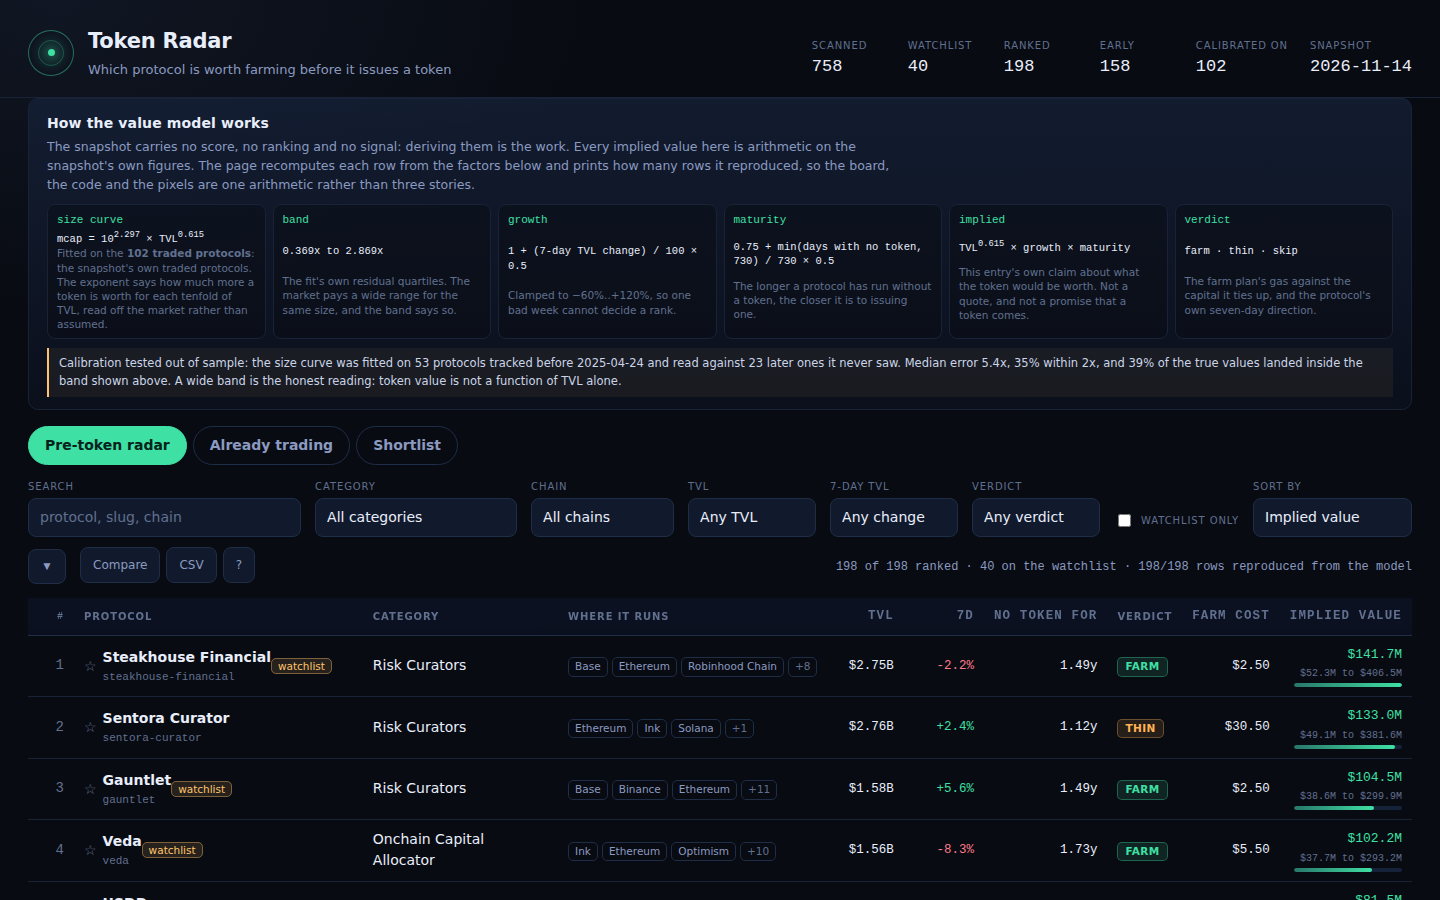
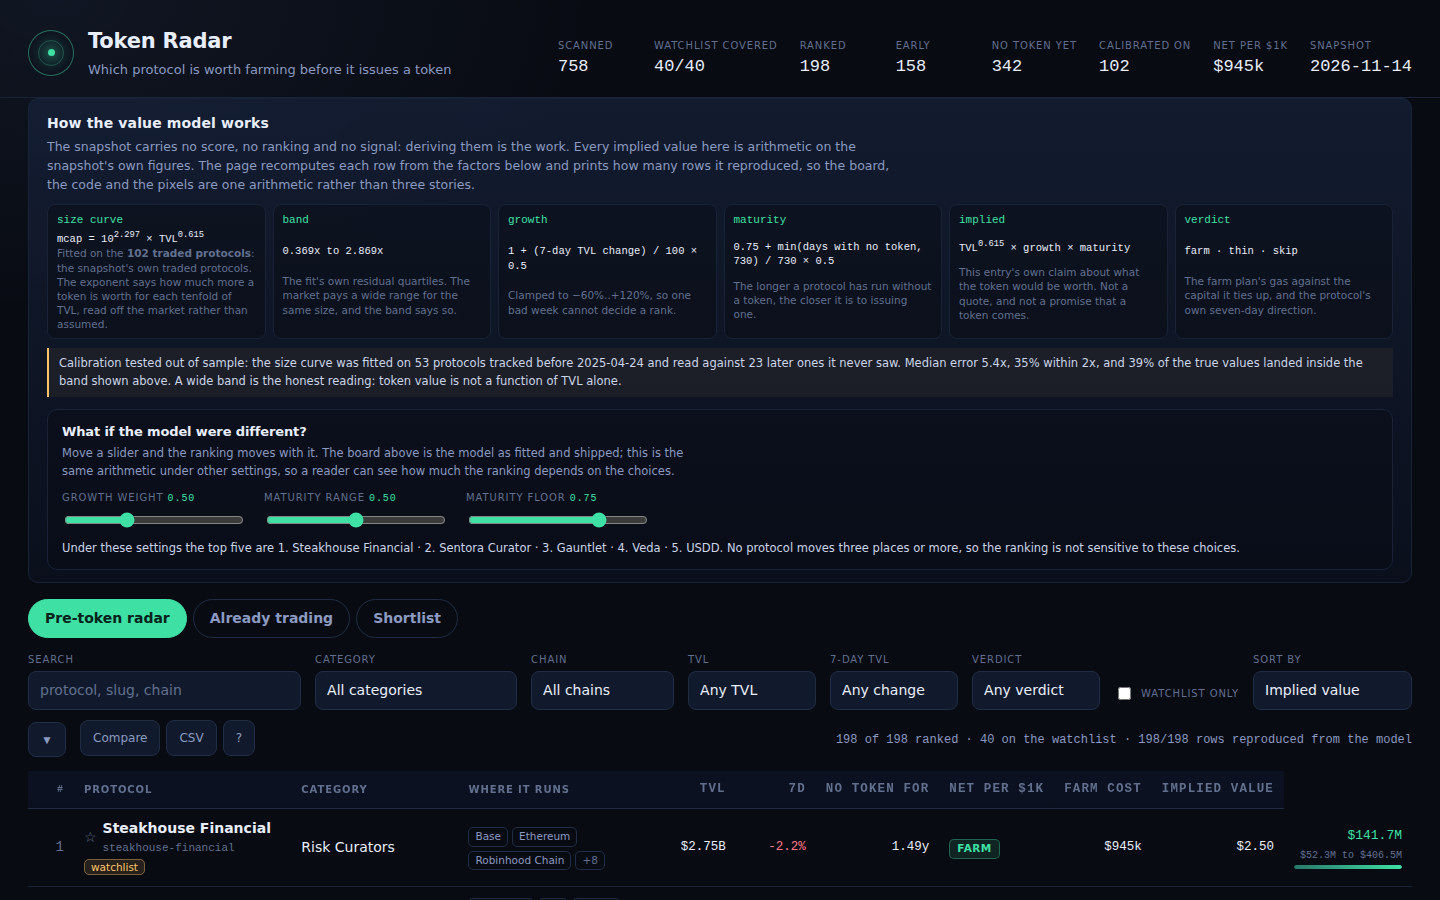
Token Radar v3: state the coverage, show the peers, and let a reader re-rank the model
The header now says what the board covered rather than implying it: the snapshot's watchlist is 40
slugs and the board carries all 40, 342 protocols in the snapshot record no token at all, and the
value is calibrated on the 102 that have one.

Each row's detail view names the traded protocols closest to it in size and what the market pays for
each, so a reader can see the curve the value is read against instead of taking it on trust.

A what-if sandbox re-ranks the board under different growth and maturity settings and names the
protocols that move, which shows how much of the ranking is the snapshot and how much is the model's
choices.

A net-per-k column puts the implied value against the capital the plan ties up, so the rows are
comparable on the question that matters: what a reader gets per dollar at risk.

diff --git a/dashboard/app.js b/dashboard/app.js
@@ -63,6 +63,10 @@
     paletteToggle: document.getElementById('palette-toggle'),
     paletteClose: document.getElementById('palette-close'),
     testLine: document.getElementById('test-line'),
+    sandboxGrowth: document.getElementById('s-growth'),
+    sandboxMaturity: document.getElementById('s-maturity'),
+    sandboxFloor: document.getElementById('s-floor'),
+    sandboxOut: document.getElementById('sandbox-out'),
   };
 
   // ---------- formatting
@@ -151,6 +155,7 @@
     if (state.sort === 'tvl') return row.tvl_usd;
     if (state.sort === 'growth') return row.change_7d === null ? -999 : row.change_7d;
     if (state.sort === 'age') return row.age_days === null ? -1 : row.age_days;
+    if (state.sort === 'net') return row.value_per_capital;
     if (state.sort === 'cost') return row.total_cost_usd;
     if (state.sort === 'readiness') return row.readiness;
     if (state.sort === 'name') return row.name.toLowerCase();
@@ -237,7 +242,7 @@
         node('th', { class: 'sortable num', 'data-sort': 'tvl', text: 'TVL' }),
         node('th', { class: 'sortable num', 'data-sort': 'growth', text: '7d' }),
         node('th', { class: 'sortable num', 'data-sort': 'age', text: 'No token for' }),
-        node('th', { text: 'Verdict' }),
+        node('th', { class: 'sortable num', 'data-sort': 'net', text: 'Net per $1k' }),
         node('th', { class: 'sortable num', 'data-sort': 'cost', text: 'Farm cost' }),
         node('th', { class: 'sortable num', 'data-sort': 'implied', text: 'Implied value' }),
       ]),
@@ -276,6 +281,7 @@
         growthCell(row),
         node('td', { class: 'num', text: fmtAge(row.age_days) }),
         node('td', null, [node('span', { class: 'verdict ' + row.verdict, text: row.verdict })]),
+        node('td', { class: 'num', text: '$' + Math.round(row.value_per_capital / 1000) + 'k' }),
         node('td', { class: 'num', text: '$' + row.total_cost_usd.toFixed(2) }),
         valueTd,
       ];
@@ -345,11 +351,36 @@
       plan.appendChild(node('li', { text: step }));
     });
 
+  // The traded protocols closest in size to this one: the peers the model's curve is read against.
+  function peerTable(row) {
+    var peers = row.peers || [];
+    if (!peers.length) return node('p', { class: 'empty', text: 'No traded protocol of a similar size in this snapshot.' });
+    var body = node('tbody');
+    peers.forEach(function (p) {
+      body.appendChild(node('tr', null, [
+        node('td', { text: p.name }),
+        node('td', { class: 'num', text: fmtUsd(p.tvl_usd) }),
+        node('td', { class: 'num', text: fmtUsd(p.mcap_usd) }),
+        node('td', { class: 'num', text: p.multiple.toFixed(3) + 'x' }),
+      ]));
+    });
+    return node('table', { class: 'peer-table' }, [
+      node('thead', null, [node('tr', null, [
+        node('th', { text: 'Traded peer' }),
+        node('th', { class: 'num', text: 'TVL' }),
+        node('th', { class: 'num', text: 'Market cap' }),
+        node('th', { class: 'num', text: 'mcap / TVL' }),
+      ])]),
+      body,
+    ]);
+  }
+
     var factors = node('ul', { class: 'factors' }, [
       factorBar('size curve', fmtUsd(row.fitted_value_usd) + ' at ' + MODEL.size_curve_exponent.toFixed(3), Math.min(row.tvl_usd / 1e10, 1)),
       factorBar('growth', fmtMult(row.growth_multiplier) + ' (' + fmtPct(row.change_7d) + ')', (row.growth_multiplier - 0.7) / 0.9),
       factorBar('maturity', fmtMult(row.maturity_multiplier), (row.maturity_multiplier - 0.75) / 0.5),
       factorBar('band', fmtUsd(row.implied_value_low_usd) + '–' + fmtUsd(row.implied_value_high_usd), row.implied_value_usd / Math.max(row.implied_value_high_usd, 1)),
+      factorBar('peers', (row.peers || []).map(function (p) { return p.name + ' ' + p.multiple + 'x'; }).join(', '), 1),
     ]);
 
     var facts = node('dl', { class: 'facts' }, [
@@ -384,6 +415,8 @@
     el.detail.appendChild(facts);
     el.detail.appendChild(node('h4', { text: 'The model on this row' }));
     el.detail.appendChild(factors);
+    el.detail.appendChild(node('h4', { text: 'Traded protocols of a similar size' }));
+    el.detail.appendChild(peerTable(row));
     el.detail.appendChild(node('h4', { text: 'How to farm it' }));
     el.detail.appendChild(plan);
     el.detail.appendChild(node('button', { class: 'back', type: 'button', text: 'Close', onclick: closeDetail }));
@@ -636,11 +669,13 @@
 
   function renderStats() {
     document.getElementById('stat-scanned').textContent = String(DATA.scanned_size);
-    document.getElementById('stat-watchlist').textContent = String(DATA.watchlist_size);
+    document.getElementById('stat-watchlist').textContent = DATA.watchlist_covered + '/' + DATA.watchlist_size;
     document.getElementById('stat-ranked').textContent = String(DATA.board_size);
     document.getElementById('stat-early').textContent = String(DATA.early_size);
+    document.getElementById('stat-audited').textContent = String(DATA.audited_no_token);
     document.getElementById('stat-comps').textContent = String(DATA.comp_set_size);
     document.getElementById('stat-date').textContent = DATA.as_of;
+    document.getElementById('stat-net').textContent = '$' + Math.round(ROWS.length ? ROWS[0].value_per_capital / 1000 : 0) + 'k';
     document.getElementById('comp-count').textContent = DATA.comp_set_size + ' traded protocols';
     document.getElementById('band-low').textContent = fmtMult(MODEL.band_low_factor);
     document.getElementById('band-high').textContent = fmtMult(MODEL.band_high_factor);
@@ -701,6 +736,46 @@
   fillSelect(el.category, categories());
   fillSelect(el.chain, chains());
   wireControls();
+
+  // ---------- the sandbox
+
+  // The same arithmetic the board was built with, under the reader's own settings: how much of the
+  // ranking is the model's choice and how much is the snapshot's. It names the protocols that move.
+  function sandboxValue(row, growthWeight, maturityRange, maturityFloor) {
+    var growth = Math.min(MODEL.growth_cap, Math.max(MODEL.growth_floor, row.change_7d === null || row.change_7d === undefined ? 0 : row.change_7d));
+    var growthMult = 1 + (growth / 100) * growthWeight;
+    var age = row.age_days === null || row.age_days === undefined ? MODEL.unknown_age_days : row.age_days;
+    var maturityMult = maturityFloor + (Math.min(Math.max(age, 0), MODEL.maturity_days) / MODEL.maturity_days) * maturityRange;
+    var fitted = Math.pow(10, MODEL.size_curve_intercept + MODEL.size_curve_exponent * Math.log10(Math.max(row.tvl_usd, MODEL.min_tvl_usd)));
+    return fitted * growthMult * maturityMult;
+  }
+
+  function renderSandbox() {
+    var growthWeight = parseFloat(el.sandboxGrowth.value);
+    var maturityRange = parseFloat(el.sandboxMaturity.value);
+    var maturityFloor = parseFloat(el.sandboxFloor.value);
+    document.getElementById('s-growth-v').textContent = growthWeight.toFixed(2);
+    document.getElementById('s-maturity-v').textContent = maturityRange.toFixed(2);
+    document.getElementById('s-floor-v').textContent = maturityFloor.toFixed(2);
+
+    var base = ROWS.slice().sort(function (a, b) { return b.implied_value_usd - a.implied_value_usd; }).map(function (r) { return r.slug; });
+    var moved = [];
+    var under = ROWS.map(function (r) { return { slug: r.slug, name: r.name, value: sandboxValue(r, growthWeight, maturityRange, maturityFloor) }; });
+    under.sort(function (a, b) { return b.value - a.value; });
+    under.forEach(function (r, i) {
+      var was = base.indexOf(r.slug) + 1;
+      if (Math.abs(was - (i + 1)) >= 3) moved.push({ name: r.name, was: was, now: i + 1 });
+    });
+    var top = under.slice(0, 5).map(function (r, i) { return (i + 1) + '. ' + r.name; }).join('  ·  ');
+    el.sandboxOut.textContent = moved.length
+      ? 'Under these settings the top five are ' + top + '. ' + moved.length + ' protocol' + (moved.length === 1 ? '' : 's') + ' move three places or more: ' +
+        moved.slice(0, 6).map(function (m) { return m.name + ' ' + m.was + '→' + m.now; }).join(', ') + '.'
+      : 'Under these settings the top five are ' + top + '. No protocol moves three places or more, so the ranking is not sensitive to these choices.';
+  }
+  [el.sandboxGrowth, el.sandboxMaturity, el.sandboxFloor].forEach(function (input) {
+    input.addEventListener('input', renderSandbox);
+  });
+  renderSandbox();
   renderStats();
   render();
   window.addEventListener('hashchange', applyHash);

diff --git a/lib/model.ts b/lib/model.ts
@@ -154,6 +154,7 @@ export interface RadarRow {
   implied_value_usd: number;
   implied_value_low_usd: number;
   implied_value_high_usd: number;
+  value_per_capital: number;
   fitted_value_usd: number;
   growth_pct: number;
   growth_multiplier: number;
@@ -167,6 +168,7 @@ export interface RadarRow {
   cost_share_of_capital: number;
   hold_days: number;
   farm_steps: string[];
+  peers: { name: string; tvl_usd: number; mcap_usd: number; multiple: number }[];
 }
 
 /** A protocol whose token already trades: the market's own numbers, and the comp set's members. */
@@ -197,6 +199,8 @@ export interface RadarData {
   early_size: number;
   live_size: number;
   comp_set_size: number;
+  audited_no_token: number;
+  watchlist_covered: number;
   scanned_size: number;
   rows: RadarRow[];
   live: LiveRow[];
@@ -676,10 +680,33 @@ export function buildBoard(snapshot: Snapshot, model: ModelConstants = modelCons
   }));
 }
 
+/** The traded protocols closest in size to a protocol's TVL: the peers its value is read against. */
+function nearestPeers(
+  tvlUsd: number,
+  comps: SnapshotProtocol[],
+): { name: string; tvl_usd: number; mcap_usd: number; multiple: number }[] {
+  const target = Math.log10(Math.max(tvlUsd, 1e6));
+  return comps
+    .slice()
+    .sort(
+      (a, b) =>
+        Math.abs(Math.log10(Math.max(a.tvl_usd, 1e6)) - target) -
+        Math.abs(Math.log10(Math.max(b.tvl_usd, 1e6)) - target),
+    )
+    .slice(0, 3)
+    .map((p) => ({
+      name: p.name,
+      tvl_usd: p.tvl_usd,
+      mcap_usd: p.mcap_usd!,
+      multiple: Math.round((p.mcap_usd! / p.tvl_usd) * 1000) / 1000,
+    }));
+}
+
 /** Everything the dashboard renders, from the snapshot. */
 export function buildRadar(snapshot: Snapshot): { board: BoardRow[]; radar: RadarData } {
   const model = modelConstants(snapshot);
   const board = buildBoard(snapshot, model);
+  const comps = compProtocols(snapshot);
   const live = liveRows(snapshot);
   const watch = new Set(snapshot.watchlist);
   const radar: RadarData = {
@@ -695,12 +722,15 @@ export function buildRadar(snapshot: Snapshot): { board: BoardRow[]; radar: Rada
     early_size: board.filter((r) => !watch.has(r.slug)).length,
     live_size: live.length,
     comp_set_size: compProtocols(snapshot).length,
+    audited_no_token: snapshot.protocols.filter((p) => isPreToken(p)).length,
+    watchlist_covered: board.filter((r) => r.watchlisted).length,
     scanned_size: snapshot.protocols.length,
     rows: board.map((row) => ({
       rank: row.rank,
       slug: row.slug,
       name: row.name,
       category: row.category,
+      peers: nearestPeers(row.tvl_usd, comps),
       chains: row.chains,
       tvl_usd: row.tvl_usd,
       change_7d: row.change_7d,
@@ -710,6 +740,7 @@ export function buildRadar(snapshot: Snapshot): { board: BoardRow[]; radar: Rada
       implied_value_usd: row.implied_value_usd,
       implied_value_low_usd: row.implied_value_low_usd,
       implied_value_high_usd: row.implied_value_high_usd,
+      value_per_capital: Math.round(row.implied_value_usd / row.farm.capital_usd),
       fitted_value_usd: row.model.fitted_value_usd,
       growth_pct: row.model.growth_pct,
       growth_multiplier: row.model.growth_multiplier,
@@ -721,6 +752,7 @@ export function buildRadar(snapshot: Snapshot): { board: BoardRow[]; radar: Rada
       capital_usd: row.farm.capital_usd,
       total_cost_usd: row.farm.total_cost_usd,
       cost_share_of_capital: row.farm.cost_share_of_capital,
+      peers: nearestPeers(row.tvl_usd, comps),
       hold_days: row.farm.hold_days,
       farm_steps: row.farm_steps,
     })),

diff --git a/dashboard/index.html b/dashboard/index.html
@@ -19,10 +19,12 @@
   </div>
   <dl class="stats" id="stats">
     <div><dt>scanned</dt><dd id="stat-scanned">&mdash;</dd></div>
-    <div><dt>watchlist</dt><dd id="stat-watchlist">&mdash;</dd></div>
+    <div><dt>watchlist covered</dt><dd id="stat-watchlist">&mdash;</dd></div>
     <div><dt>ranked</dt><dd id="stat-ranked">&mdash;</dd></div>
     <div><dt>early</dt><dd id="stat-early">&mdash;</dd></div>
+    <div><dt>no token yet</dt><dd id="stat-audited">&mdash;</dd></div>
     <div><dt>calibrated on</dt><dd id="stat-comps">&mdash;</dd></div>
+    <div><dt>net per $1k</dt><dd id="stat-net">&mdash;</dd></div>
     <div><dt>snapshot</dt><dd id="stat-date">&mdash;</dd></div>
   </dl>
 </header>
@@ -70,6 +72,28 @@
     </li>
   </ol>
   <p class="test-line" id="test-line"></p>
+
+  <div class="sandbox" id="sandbox">
+    <div class="sandbox-head">
+      <h3>What if the model were different?</h3>
+      <p>Move a slider and the ranking moves with it. The board above is the model as fitted and shipped; this is the same arithmetic under other settings, so a reader can see how much the ranking depends on the choices.</p>
+    </div>
+    <div class="sandbox-controls">
+      <div class="field">
+        <label for="s-growth">growth weight <span id="s-growth-v">0.50</span></label>
+        <input type="range" id="s-growth" min="0" max="1.5" step="0.05" value="0.5">
+      </div>
+      <div class="field">
+        <label for="s-maturity">maturity range <span id="s-maturity-v">0.50</span></label>
+        <input type="range" id="s-maturity" min="0" max="1" step="0.05" value="0.5">
+      </div>
+      <div class="field">
+        <label for="s-floor">maturity floor <span id="s-floor-v">0.75</span></label>
+        <input type="range" id="s-floor" min="0" max="1" step="0.05" value="0.75">
+      </div>
+    </div>
+    <p class="sandbox-out" id="sandbox-out"></p>
+  </div>
 </section>
 
 <nav class="tabs" role="tablist" aria-label="Views">
@@ -130,6 +154,7 @@
       <option value="tvl">TVL</option>
       <option value="growth">7-day change</option>
       <option value="age">Days with no token</option>
+      <option value="net">Net per $1k at risk</option>
       <option value="cost">Farm cost</option>
       <option value="readiness">Readiness</option>
       <option value="name">Name</option>

diff --git a/dashboard/app.css b/dashboard/app.css
@@ -590,3 +590,24 @@ tbody tr.open td { background: rgba(63, 224, 164, 0.09); }
 
 /* The hidden attribute must win over the layout rules above. */
 [hidden] { display: none !important; }
+
+/* ---------- sandbox ---------- */
+
+.sandbox {
+  margin-top: 12px;
+  padding: 12px 14px;
+  border: 1px solid var(--line-soft);
+  border-radius: 10px;
+  background: rgba(8, 11, 18, 0.4);
+}
+.sandbox-head h3 { font-size: 13px; }
+.sandbox-head p { margin: 4px 0 0; color: var(--muted); font-size: 11.5px; max-width: 88ch; }
+.sandbox-controls { display: flex; flex-wrap: wrap; gap: 10px 22px; margin-top: 10px; }
+.sandbox-controls .field { min-width: 180px; }
+.sandbox-controls label span { color: var(--accent); font-family: var(--mono); }
+.sandbox-controls input[type="range"] { width: 100%; accent-color: var(--accent); }
+.sandbox-out { margin: 10px 0 0; color: #cbd5e8; font-size: 11.5px; }
+
+.peer-table { font-size: 12px; }
+.peer-table thead th { background: none; position: static; }
+.peer-table tbody td { padding: 6px 8px; }
